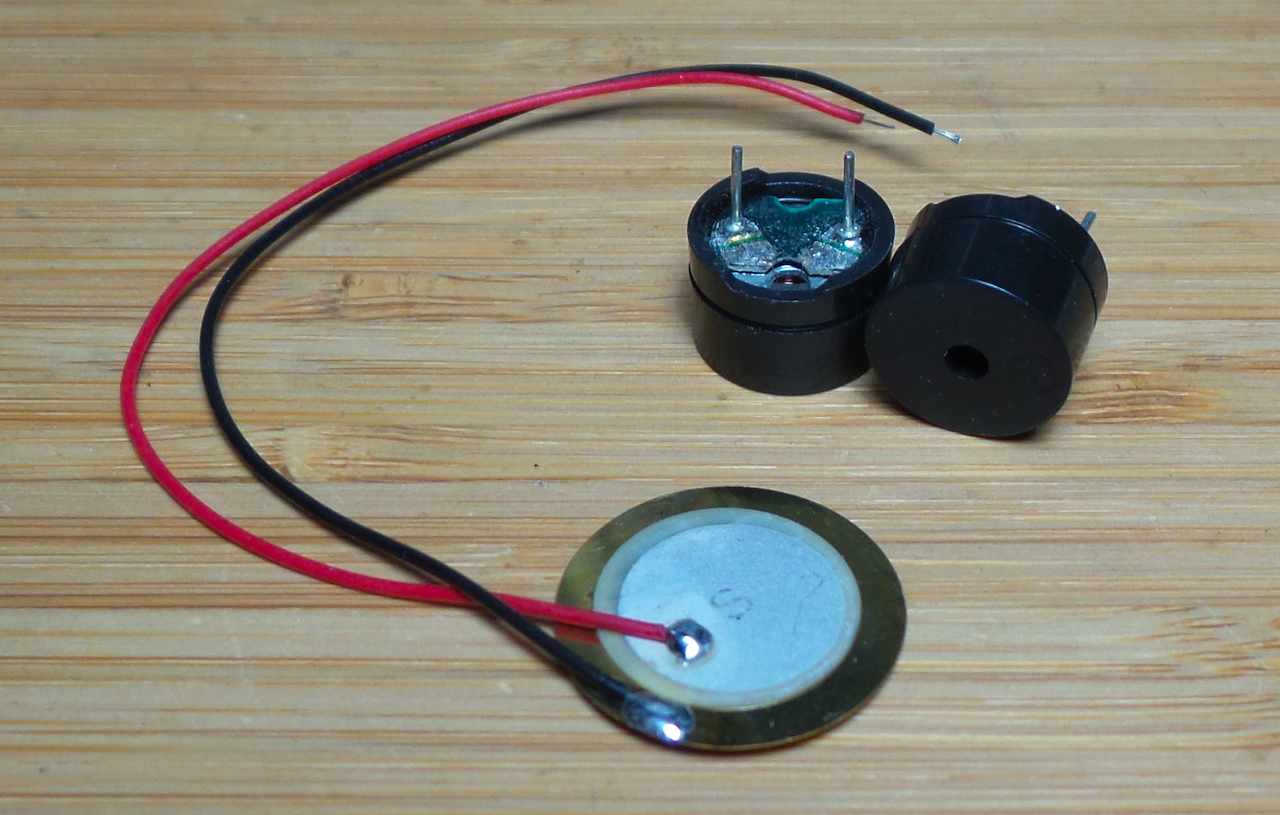
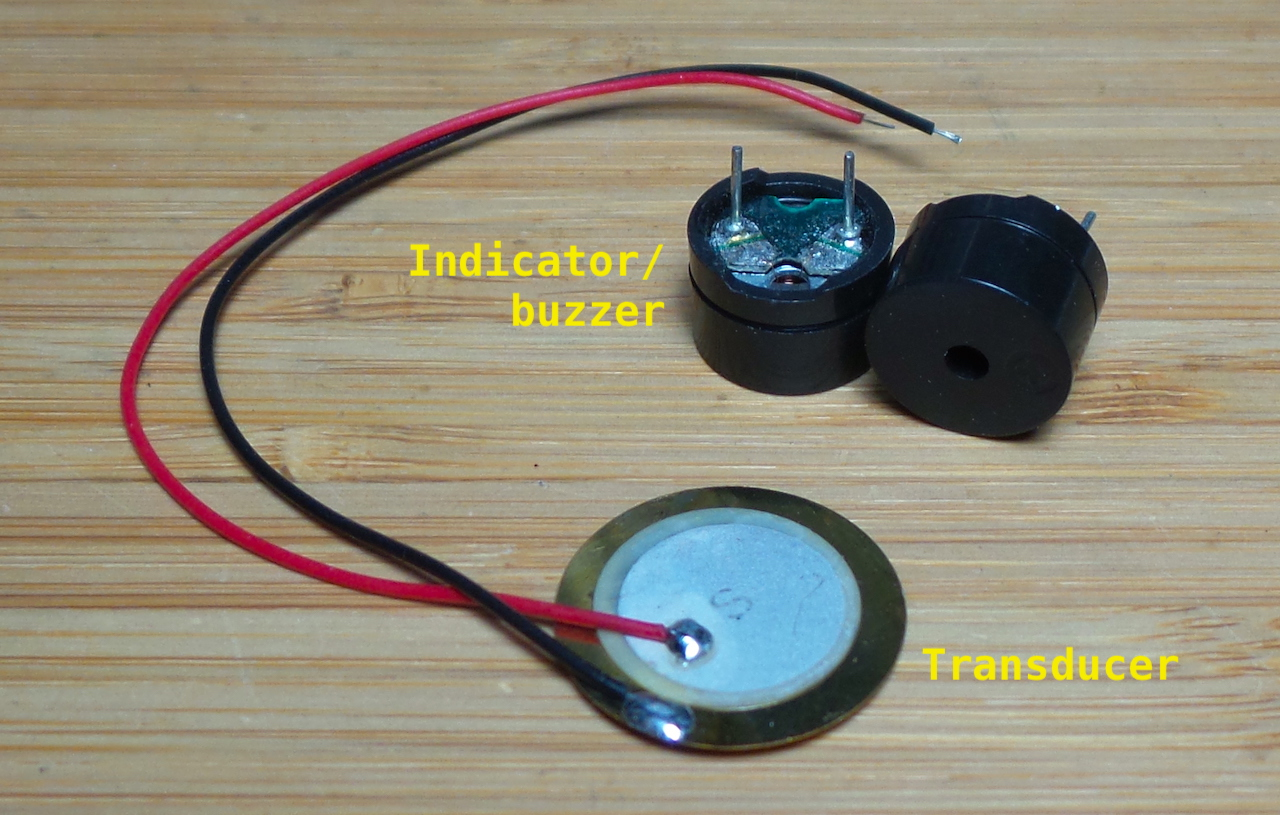
[PiezoBuzzers/OpAmpDriver] add project

Changed region(s): [[0.7188, 0.7975, 0.9375, 0.8589], [0.3125, 0.2761, 0.5312, 0.3374], [0.375, 0.3681, 0.5312, 0.3988]]

diff --git a/Electronics101/PiezoBuzzers/README.md b/Electronics101/PiezoBuzzers/README.md
@@ -1,4 +1,4 @@
-# #455 PiezoBuzzers
+# #455 Piezo Transducers and Buzzers
 
 Exploring techniques for driving piezo transducers and buzzer units for audio output.
 
@@ -12,13 +12,70 @@ Here's a quick demo..
 
 [Piezoelectric sensors](https://en.wikipedia.org/wiki/Piezoelectric_sensor) for generating sound are commonly found in two form factors:
 
-* a basic diaphragm/disk - can be used as a transducer as well as for sound generation
-* a buzzer unit in the familiar plastic cylinder
+* indicator (aka buzzer): complete piezoelectric unit including circuit to produce sound
+  * just requires an applied voltage to produce sound - fixed frequency by default
+  * may be combined with external circuitry to mix/alter the sound and frequency
+
+* transducer: a basic piezoelectric diaphragm/disk
+  * sometimes called a "passive" buzzer element
+  * can be used as an input transducer as well as for sound generation
+  * does not self-oscillate - requires external circuit to produce sound
 
 ![PiezoBuzzers](./assets/PiezoBuzzers.jpg?raw=true)
 
+## Driving Piezoelectric Indicators
 
-## Driving Piezoelectric Disks
+Piezoelectric indicators (aka buzzers) are simple voltage-controlled devices.
+Typically used as alarms or action feedback indicators.
+They come in a range of forms - from the very cheap suited to breadboard experiments through
+to quality devices suited to security alarm installations.
+
+Driving a piezoelectric indicator is simple - it just needs a voltage applied.
+
+### Common PCB Mount
+
+Available [for pennies](https://www.aliexpress.com/item/33026767889.html)
+and ideal for PCB or breadboard prototyping
+(however I have come across devices with leads that are far too thick to use on a breadboard without damaging it).
+It is usually OK to even drive a 3-5V component directly from a 20mA-limit GPIO pin
+
+[![buzzer_pcb1](./assets/buzzer_pcb1.jpg?raw=true)](https://www.aliexpress.com/item/33026767889.html)
+
+### High Volume Alarms
+
+Beefier devices are more suited to serious alarm purposes, for example this
+[95dB SPL Continuous Sound Beeper](https://www.aliexpress.com/item/32783807336.html)
+
+* Buzzer Type: Piezoelectric
+* Sound Pressure Level 95 dB
+* Rate Voltage: 12V DC
+* Operating Voltage: 3 - 24V
+* Max Current Rating 10mA
+* Frequency 3900±500Hz
+* Drive Method: Drive Circuit Built in Mounting Holes
+* Sound: "Di" Continuous
+
+[![buzzer_alarm1](./assets/buzzer_alarm1.jpg?raw=true)](https://www.aliexpress.com/item/32783807336.html)
+
+![buzzer_alarm1_build](./assets/buzzer_alarm1_build.jpg?raw=true)
+
+### Alarms with Effects
+
+Sometimes the piezo indicator circuit has a built-in effect, like for example
+[this device](https://www.aliexpress.com/item/32984518008.html)
+which emits a beep every half a second or so.
+
+* Sound Pressure Level 95 dB
+* Rate Voltage: 12V DC
+* Operating Voltage: 3 - 24V
+
+[![buzzer_alarm2](./assets/buzzer_alarm2.jpg?raw=true)](https://www.aliexpress.com/item/32984518008.html)
+
+![buzzer_alarm2_build](./assets/buzzer_alarm2_build.jpg?raw=true)
+
+## Driving Piezoelectric Transducers
+
+Piezoelectric Transducers require an external oscillator to produce sound output.
 
 A common circuit for turning a Piezoelectric disk into a buzzer uses a low-side switch.
 Plain piezo disks require a bypass resistor to dump the charge (else no sound will be produced).
@@ -29,7 +86,7 @@ a pulse from about
 [152 Hz](https://visual555.tardate.com/?mode=astable&r1=1&r2=100&c=0.047) to about
 [10kHz](https://visual555.tardate.com/?mode=astable&r1=1&r2=1&c=0.047)
 
-The 555 output switched a low-side 2N7000 n-channel FET.
+The 555 output switches a low-side 2N7000 n-channel FET.
 
 I've selected a 10kΩ bypass resistor. Lower values start to attenuate the output.
 
@@ -45,4 +102,5 @@ A 2.2kΩ series resistor limits current without much impact on volume.
 
 * [Piezoelectric sensor](https://en.wikipedia.org/wiki/Piezoelectric_sensor) - wikipedia
 * [Piezoelectric speaker](https://en.wikipedia.org/wiki/Piezoelectric_speaker) - wikipedia
+* [Buzzer types](https://en.wikipedia.org/wiki/Buzzer) - wikipedia
 * [Buzzer Basics - Technologies, Tones, and Drive Circuits](https://www.cuidevices.com/blog/buzzer-basics-technologies-tones-and-driving-circuits)

diff --git a/Electronics101/PiezoBuzzers/OpAmpDriver/README.md b/Electronics101/PiezoBuzzers/OpAmpDriver/README.md
@@ -1,0 +1,40 @@
+# #596 OpAmp Piezo Driver
+
+Testing a circuit for driving a piezoelectric transducer for sound output with a TL072 opamp oscillator.
+
+![Build](./assets/OpAmpDriver_build.jpg?raw=true)
+
+## Notes
+
+As discussed in [LEAP#455 Piezo Transducers and Buzzers](./..), piezoelectric transducer
+require an external oscillator to produce sound.
+
+This is an example of an OpAmp driver:
+
+* comparator-based relaxation oscillator implemented with one OpAmp from a TL072
+* 2N7000 switch to enable the oscillator
+* driving a [passive buzzer element](https://www.aliexpress.com/item/32913849609.html)
+
+NB: I have seen silimar circuits with an NPN BJT switch but some of these don't seem to turn the oscillator hard enough off.
+
+## Construction
+
+![Breadboard](./assets/OpAmpDriver_bb.jpg?raw=true)
+
+![Schematic](./assets/OpAmpDriver_schematic.jpg?raw=true)
+
+![Build](./assets/OpAmpDriver_build.jpg?raw=true)
+
+## Results
+
+Works fine - emits a constant tone when the button is pressed.
+
+A crude estimate just considering the 20kΩ and 10nF RC path suggest a frequncy [~796 Hz](https://www.wolframalpha.com/input/?i=1%2F%282%CF%80+*+20k%CE%A9+*+10nF%29). Actually 844Hz acording to the scope..
+
+![output](./assets/output.gif?raw=true)
+
+## Credits and References
+
+* [TL072CP datasheet](https://www.futurlec.com/Linear/TL072CP.shtml)
+* [2N7000 datasheet](https://www.futurlec.com/Transistors/2N7000.shtml)
+* [Piezo Passive Buzzer Element](https://www.aliexpress.com/item/32913849609.html) - example from aliexpress

diff --git a/README.md b/README.md
@@ -1,6 +1,6 @@
-# 595 Little Electronics and Arduino Projects
+# 596 Little Electronics and Arduino Projects
 
-> Latest addition:sparkles: [LM35 Temperature Sensor](./Electronics101/TemperatureSensors/LM35) - Reading ambient temperature with the LM35 and an Arduino without output display on a Nokia 5110 LCD.
+> Latest addition:sparkles: [OpAmp Piezo Driver](./Electronics101/PiezoBuzzers/OpAmpDriver) - Testing a circuit for driving a piezoelectric transducer for sound output with a TL072 opamp oscillator.
 
 Just my collection of electronics projects, many involving an Arduino in one way or another.
 Some are full builds (like [The FretBoard](./FretBoard)),

diff --git a/Electronics101/OpAmp/Transconductance/README.md b/Electronics101/OpAmp/Transconductance/README.md
@@ -1,4 +1,4 @@
-# #463 OpAmp/Transconductance
+# #463 OpAmp Transconductance Amplifiers
 
 Understanding transconductance amplifiers and how they can be realised with an op-amp, and testing both single and dual-supply transconductance circuits based on an LM741 op-amp.
 

diff --git a/Electronics101/OpAmp/TwinTeeOscillator/README.md b/Electronics101/OpAmp/TwinTeeOscillator/README.md
@@ -1,4 +1,4 @@
-# #459 OpAmp/TwinTeeOscillator
+# #459 Twin-Tee OpAmp Oscillator
 
 A twin-tee sine wave oscillator using an TL072 Op-Amp, running in the audio spectrum.
 
